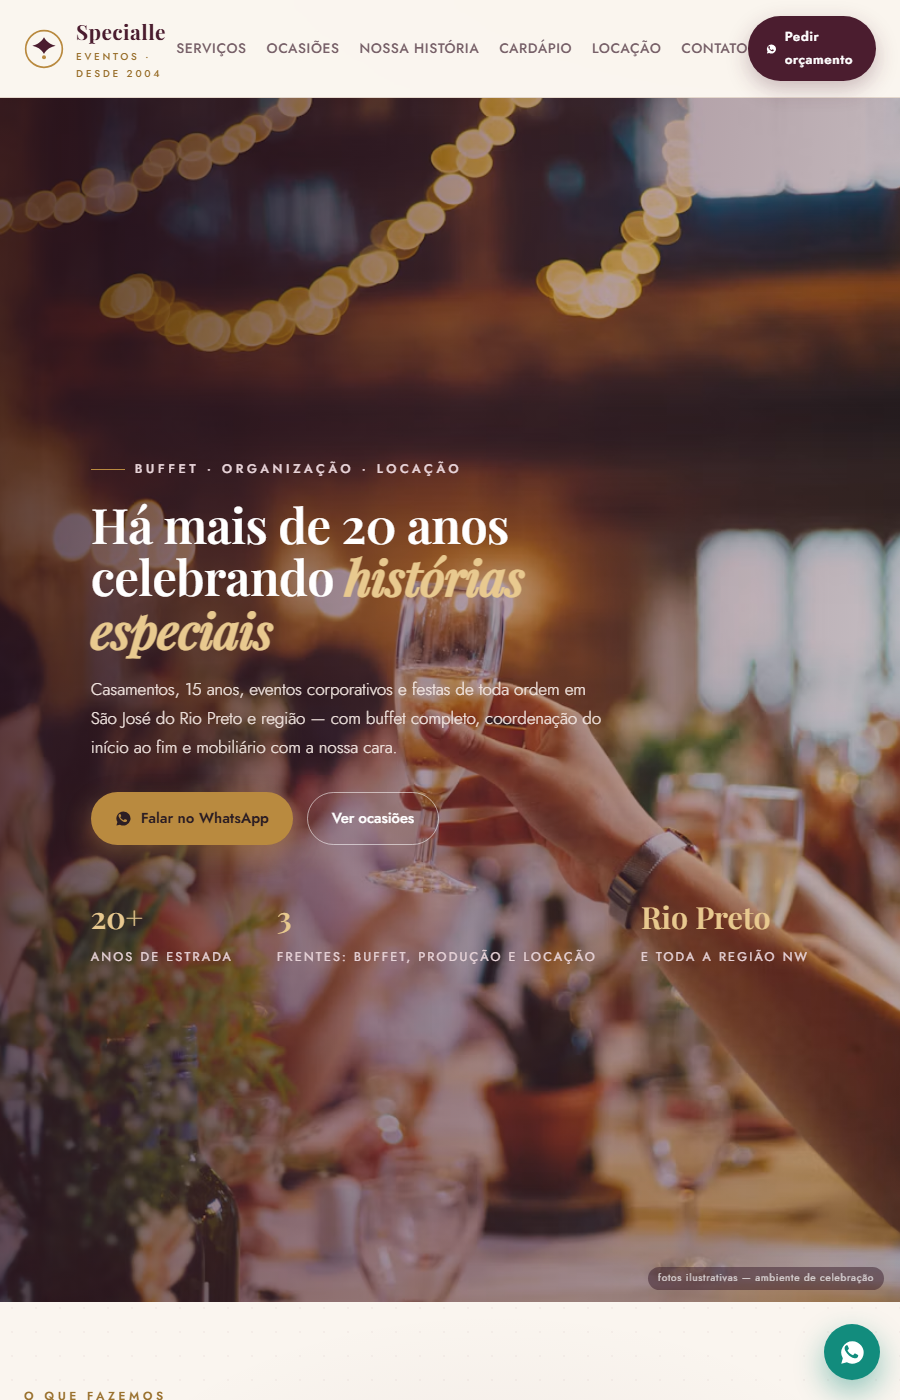
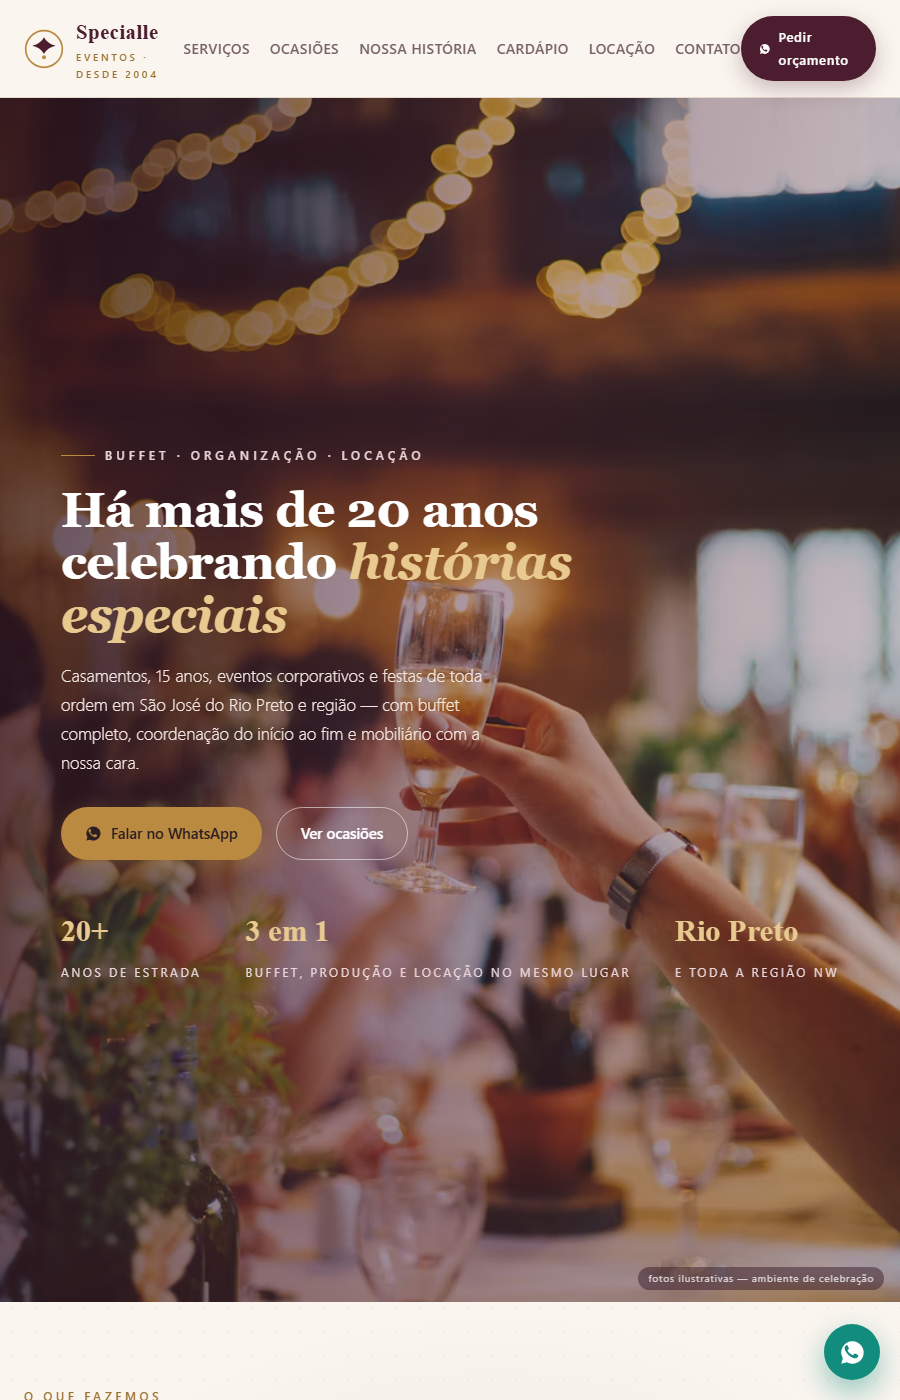
protos: publica specialle-eventos (gate R5: 8/10 )

diff --git a/p/specialle-eventos/index.html b/p/specialle-eventos/index.html
@@ -205,7 +205,7 @@ footer .proto{background:rgba(185,138,63,.16);border:1px solid rgba(185,138,63,.
     </div>
     <div class="stats">
       <div><b>20+</b><span>anos de estrada</span></div>
-      <div><b>3</b><span>frentes: buffet, produção e locação</span></div>
+      <div><b>3 em 1</b><span>buffet, produção e locação no mesmo lugar</span></div>
       <div><b>Rio Preto</b><span>e toda a região NW</span></div>
     </div>
   </div>
@@ -363,7 +363,7 @@ footer .proto{background:rgba(185,138,63,.16);border:1px solid rgba(185,138,63,.
     <div class="contact">
       <div>
         <svg width="22" height="22" viewBox="0 0 24 24" fill="none" stroke="#e8c98f" stroke-width="1.7" stroke-linecap="round"><path d="M12 21s-7-6.3-7-11a7 7 0 0 1 14 0c0 4.7-7 11-7 11z"/><circle cx="12" cy="10" r="2.6"/></svg>
-        <span><b>Endereço</b>Av. Murchid Homsi, 2560 — Jd. Santa Maria, São José do Rio Preto/SP, CEP 15080-210</span>
+        <span><b>Endereço</b><a href="https://maps.google.com/?q=Av.+Murchid+Homsi+2560,+Jd.+Santa+Maria,+S%C3%A3o+Jos%C3%A9+do+Rio+Preto+-+SP" target="_blank" rel="noopener" style="color:inherit;text-decoration:underline">Av. Murchid Homsi, 2560 — Jd. Santa Maria, São José do Rio Preto/SP</a></span>
       </div>
       <div>
         <svg width="22" height="22" viewBox="0 0 24 24" fill="none" stroke="#e8c98f" stroke-width="1.7" stroke-linecap="round"><circle cx="12" cy="12" r="9"/><path d="M12 7v5l3.2 2.2"/></svg>
